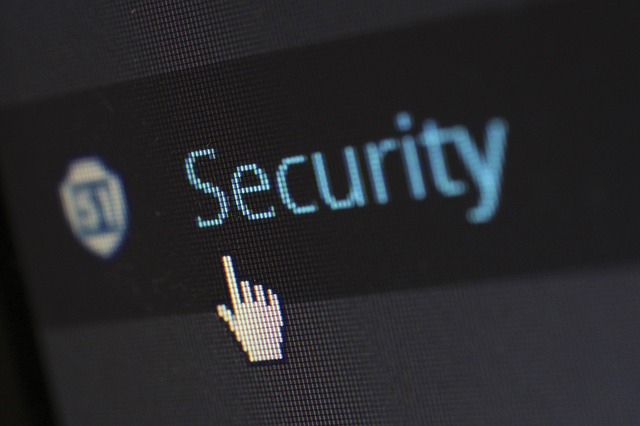
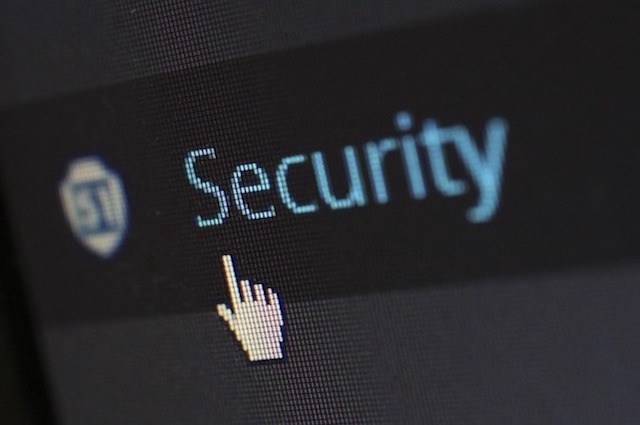
fixed image sizes

Changed region(s): [[0.3438, 0.5812, 0.4688, 0.8565], [0.2812, 0.3365, 0.4375, 0.52], [0.4375, 0.8565, 0.4688, 0.8871]]

diff --git a/newWebsite.html b/newWebsite.html
@@ -124,7 +124,7 @@
             </div>
         </div>
 
-<!--Need to complete third row of cards        -->
+        <!--Need to complete third row of cards        -->
         <div class="thirdColumn col-md-4">
             <div class="card small-cards">
                 <img class="card-img lastimages" src="images/mobile-phone.jpg" alt="cellphone">
@@ -142,14 +142,15 @@
                 <img class="card-img twitter" src="images/Twitter_Logo_new-700x569.png" alt="twitter">
                 <p class="card-text mt-auto">LAST TWEET</p>
             </div>
-                <div class="card-footer"><p>
-                    Lorem ipsum dolor sit amet, consectetur adipisicing elit. A commodi consectetur ducimus ea ex, harum hic iusto mollitia nihil
-                    </p>
-                </div>
+            <div class="card-footer"><p>
+                Lorem ipsum dolor sit amet, consectetur adipisicing elit. A commodi consectetur ducimus ea ex, harum hic
+                iusto mollitia nihil
+            </p>
+            </div>
 
 
+        </div>
     </div>
-</div>
 </div>
 
 

diff --git a/newWebsite.css b/newWebsite.css
@@ -146,7 +146,7 @@ hr {
 }
 .card-img-top {
     border: 5px solid #E6E6E6;
-    height: 223px;
+    /*height: 223px;*/
 }
 
 .secondCard {
@@ -184,6 +184,7 @@ hr {
 }
 
 
+
 @media screen and (min-width: 576px) {
     .secondCard {
         display: flex;
@@ -215,7 +216,6 @@ hr {
         display: inline-block;
         height: 2px;
     }
-
     .featured {
         justify-content: flex-start;
 
